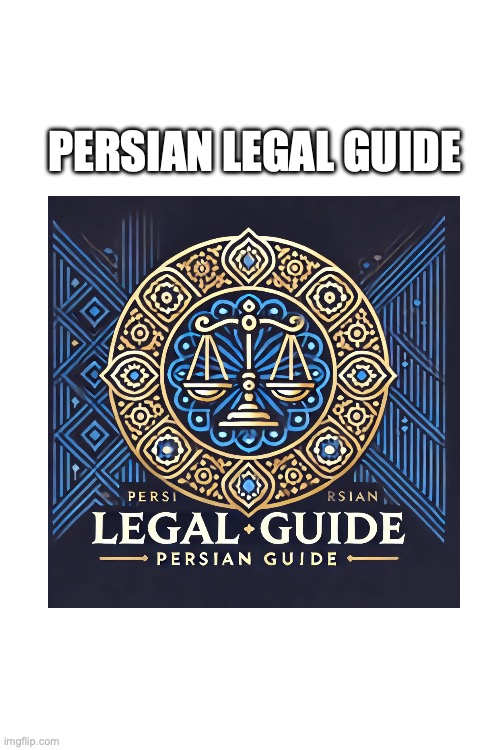
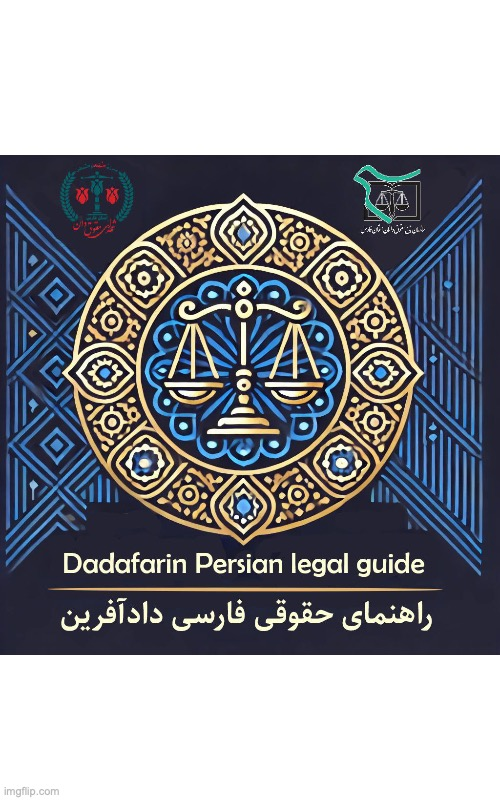
eh

diff --git a/SRC/openai-backend/ApiBackEnd.js b/SRC/openai-backend/ApiBackEnd.js
@@ -90,69 +90,6 @@ const addMessageToThread = async (threadId, message) => {
   }
 };
 
-const runThreadWithStreaming = async (
-  threadId,
-  assistantId,
-  
-  handleStreamedEvent,
-  setIsLoading
-) => {
-  try {
-    let apiKey = await SecureStore.getItemAsync("apiKey");
-    const runResponse = await fetch(
-      `https://api.openai.com/v1/threads/${threadId}/runs`,
-      {
-        method: "POST",
-        headers: {
-          "Content-Type": "application/json",
-          Authorization: `Bearer ${apiKey}`,
-          "OpenAI-Beta": "assistants=v2",
-        },
-        body: JSON.stringify({ assistant_id: assistantId, stream: true }),
-      }
-    );
-
-    if (!runResponse.ok) {
-      throw new Error(`HTTP error! status: ${runResponse.status}`);
-    }
-
-    const responseText = await runResponse.text();
-
-    const handleStreamedResponse = (value) => {
-      const lines = value.split("\n");
-      for (const line of lines) {
-        if (line.trim().startsWith("data:")) {
-          const data = line.trim().slice(5).trim();
-          if (data === "[DONE]") {
-            setIsLoading(false);
-          } else {
-            try {
-              const event = JSON.parse(data);
-              handleStreamedEvent(event);
-            } catch (error) {
-              console.error("Error parsing streamed response:", error);
-            }
-          }
-        }
-      }
-    };
-
-    const simulateStream = async (text) => {
-      const lines = text.split("\n");
-      for (const line of lines) {
-        if (line) {
-          handleStreamedResponse(line);
-          await new Promise((resolve) => setTimeout(resolve, 100)); // Simulate delay between chunks
-        }
-      }
-    };
-
-    await simulateStream(responseText);
-  } catch (error) {
-    console.error("Error running thread:", error);
-    setIsLoading(false);
-  }
-};
 
 const callAssistantApi = async (message, threadID, assistantId) => {
   try {
@@ -198,24 +135,24 @@ const callAssistantApi = async (message, threadID, assistantId) => {
 };
 
 const UPLOAD_URL = "https://api.openai.com/v1/uploads";
-const COMPLETE_UPLOAD_URL =
-  "https://api.openai.com/v1/uploads/{upload_id}/complete";
+const COMPLETE_UPLOAD_URL = "https://api.openai.com/v1/uploads/{upload_id}/complete";
+
 const uploadIndividualFiles = async (file) => {
   try {
     const apiKey = await SecureStore.getItemAsync("apiKey");
     const { name, size, mimeType, uri } = file;
+    console.log("Starting upload for file:", { name, size, mimeType, uri });
+    
     const upload = await createUpload(name, size, mimeType, apiKey);
+    console.log("Upload created:", upload);
+
     if (!upload.id) {
       throw new Error("Failed to create upload");
     }
 
-    const partResponse = await uploadFile(
-      upload.id,
-      uri,
-      mimeType,
-      name,
-      apiKey
-    );
+    const partResponse = await uploadFile(upload.id, uri, mimeType, name, apiKey);
+    console.log("Part uploaded:", partResponse);
+
     const partIds = [partResponse.id];
 
     if (!partResponse.id) {
@@ -223,7 +160,13 @@ const uploadIndividualFiles = async (file) => {
     }
 
     const completion = await completeUpload(upload.id, partIds, apiKey);
-    console.log("Upload Complete", `File ID: ${completion.file.id}`);
+    console.log("Upload complete:", completion);
+
+    if (!completion.file || !completion.file.id) {
+      throw new Error("Failed to complete upload");
+    }
+
+    console.log("Upload Complete, File ID:", completion.file.id);
     return completion.file.id;
   } catch (error) {
     console.error("Error uploading files:", error);
@@ -231,54 +174,97 @@ const uploadIndividualFiles = async (file) => {
   }
 };
 
-const createUpload = async (filename, fileSize, mimeType, apiKey) => {
-  const response = await fetch(UPLOAD_URL, {
-    method: "POST",
-    headers: {
-      Authorization: `Bearer ${apiKey}`,
-      "Content-Type": "application/json",
-    },
-    body: JSON.stringify({
-      filename,
-      purpose: "fine-tune",
-      bytes: fileSize,
-      mime_type: mimeType,
-    }),
-  });
-  return response.json();
-};
-const uploadFile = async (uploadId, fileUri, mimeType, filename, apiKey) => {
-  const formData = new FormData();
-  formData.append("data", {
-    uri: fileUri,
-    type: mimeType,
-    name: filename,
-  });
+const createUpload = async (filename, fileSize, mimeType, apiKey, retries = 3) => {
+  try {
+    const response = await fetch(UPLOAD_URL, {
+      method: "POST",
+      headers: {
+        Authorization: `Bearer ${apiKey}`,
+        "Content-Type": "application/json",
+      },
+      body: JSON.stringify({
+        filename,
+        purpose: "fine-tune",
+        bytes: fileSize,
+        mime_type: mimeType,
+      }),
+    });
+    const jsonResponse = await response.json();
+    console.log("Create upload response:", jsonResponse);
 
-  const response = await fetch(`${UPLOAD_URL}/${uploadId}/parts`, {
-    method: "POST",
-    headers: {
-      Authorization: `Bearer ${apiKey}`,
-      "Content-Type": "multipart/form-data",
-    },
-    body: formData,
-  });
-  return response.json();
+    if (jsonResponse.error) {
+      throw new Error(jsonResponse.error.message);
+    }
+
+    return jsonResponse;
+  } catch (error) {
+    console.error("Error creating upload:", error);
+    if (retries > 0) {
+      console.log(`Retrying create upload... (${3 - retries + 1}/3)`);
+      await new Promise(resolve => setTimeout(resolve, 1000)); // wait for 1 second before retrying
+      return createUpload(filename, fileSize, mimeType, apiKey, retries - 1);
+    } else {
+      throw error;
+    }
+  }
 };
+
+const uploadFile = async (uploadId, fileUri, mimeType, filename, apiKey) => {
+  try {
+    const formData = new FormData();
+    formData.append("data", {
+      uri: fileUri,
+      type: mimeType,
+      name: filename,
+    });
+
+    const response = await fetch(`${UPLOAD_URL}/${uploadId}/parts`, {
+      method: "POST",
+      headers: {
+        Authorization: `Bearer ${apiKey}`,
+        "Content-Type": "multipart/form-data",
+      },
+      body: formData,
+    });
+    const jsonResponse = await response.json();
+    console.log("Upload part response:", jsonResponse);
+
+    if (jsonResponse.error) {
+      throw new Error(jsonResponse.error.message);
+    }
+
+    return jsonResponse;
+  } catch (error) {
+    console.error("Error uploading file part:", error);
+    throw error;
+  }
+};
+
 const completeUpload = async (uploadId, partIds, apiKey) => {
-  const response = await fetch(
-    COMPLETE_UPLOAD_URL.replace("{upload_id}", uploadId),
-    {
+  try {
+    const response = await fetch(COMPLETE_UPLOAD_URL.replace("{upload_id}", uploadId), {
       method: "POST",
       headers: {
         Authorization: `Bearer ${apiKey}`,
         "Content-Type": "application/json",
       },
       body: JSON.stringify({ part_ids: partIds }),
+    });
+    const jsonResponse = await response.json();
+    console.log("Complete upload response:", jsonResponse);
+
+    if (jsonResponse.error) {
+      throw new Error(jsonResponse.error.message);
     }
-  );
-  return response.json();
+
+    return jsonResponse;
+  } catch (error) {
+    console.error("Error completing upload:", error);
+    throw error;
+  }
 };
+
+
 
 async function createVectorStore(openaiInstance, fileIds) {
   const vectorStore = await openaiInstance.beta.vectorStores.create({

diff --git a/SRC/app.config.js b/SRC/app.config.js
@@ -1,9 +1,9 @@
 export default ({ config }) => ({
     ...config,
-    name: "Persian Legal Guide",
-    slug: "persian-legal-guide",
-    version: "1.0.0",
-    runtimeVersion: "1.0.3",
+    name: "Dadafarin",
+    slug: "dadafarin",
+    version: "1.0.1",
+    runtimeVersion: "1.0.4",
     orientation: "portrait",
     icon: "./assets/icon.png",
     userInterfaceStyle: "light",
@@ -30,7 +30,7 @@ export default ({ config }) => ({
     },
     extra: {
       eas: {
-        projectId: "37368c89-9a1c-4b62-ac73-447f85b72c40"
+        projectId: "f3b394a8-3960-4dc2-be79-68cbba0851f6"
       },
       router: {
         origin: false

diff --git a/SRC/Screens/AssistantScreen/AssistantMakerScreen2.js b/SRC/Screens/AssistantScreen/AssistantMakerScreen2.js
@@ -90,6 +90,7 @@ function AssistantMakerScreen2({ navigation, route }) {
     try {
       const uploadPromises = files.map((file) => uploadIndividualFiles(file));
       const fileIds = await Promise.all(uploadPromises);
+      
       console.log("fileIds", fileIds);
       return fileIds;
     } catch (error) {
